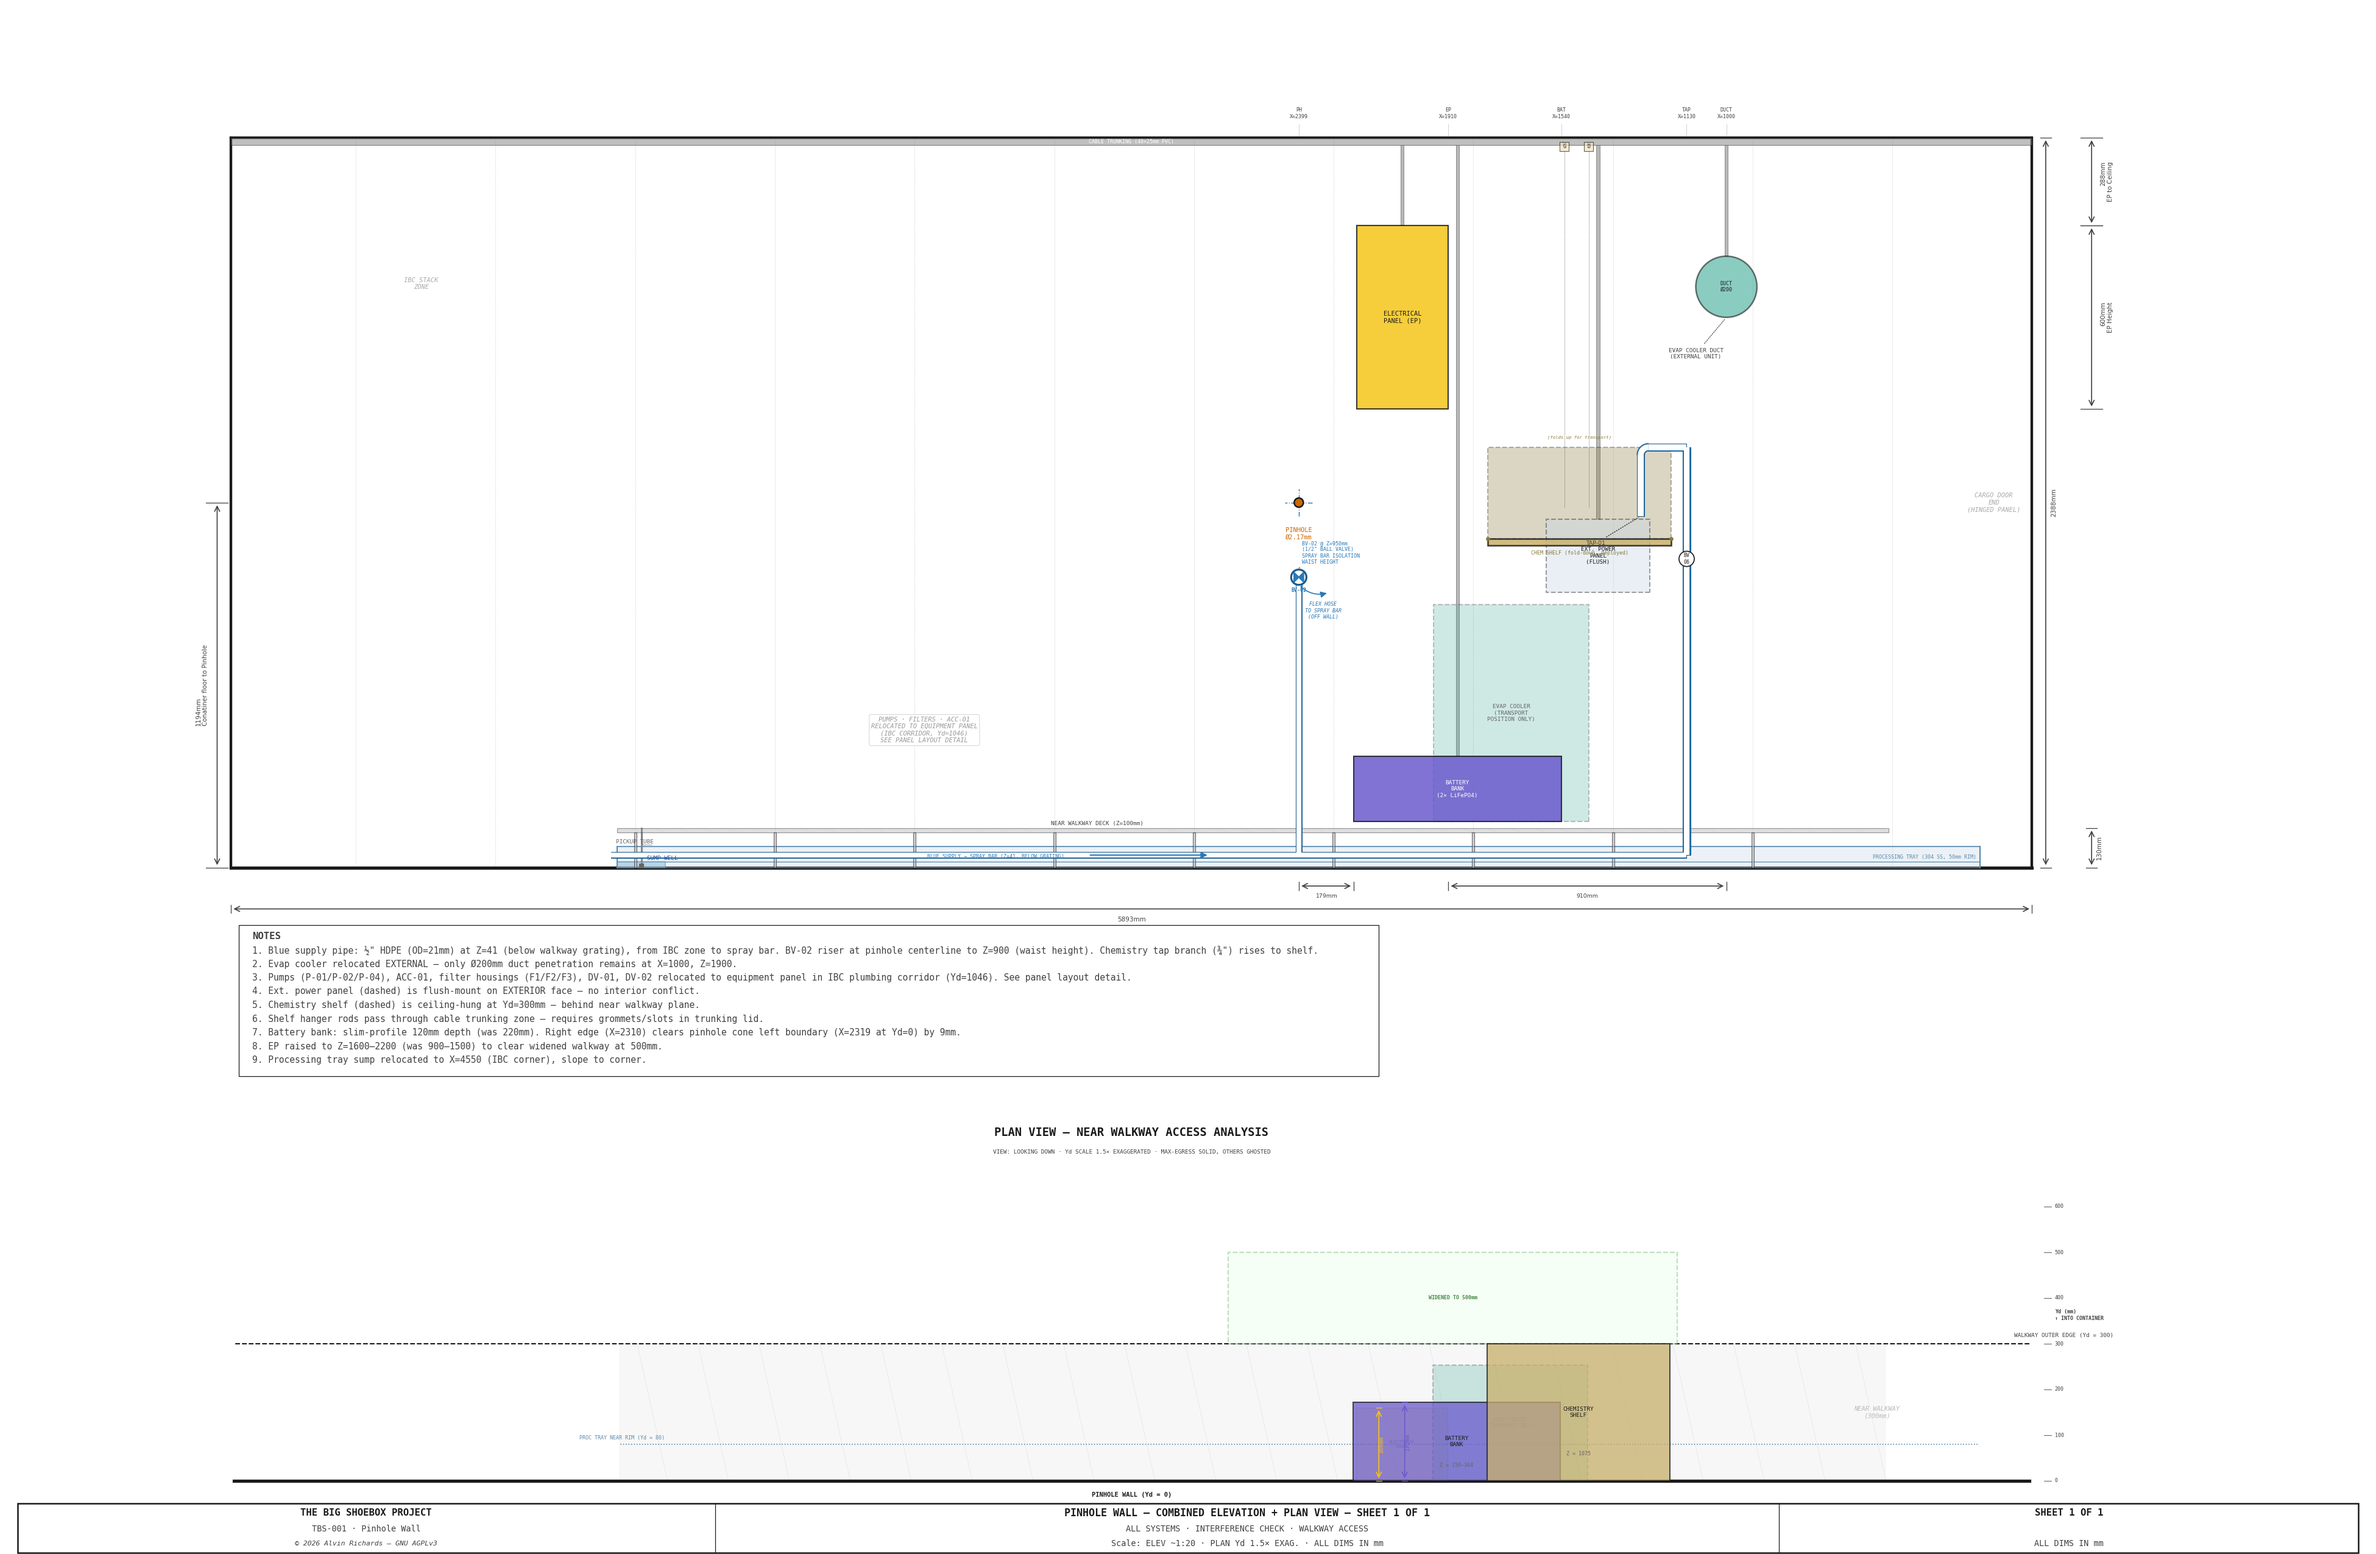
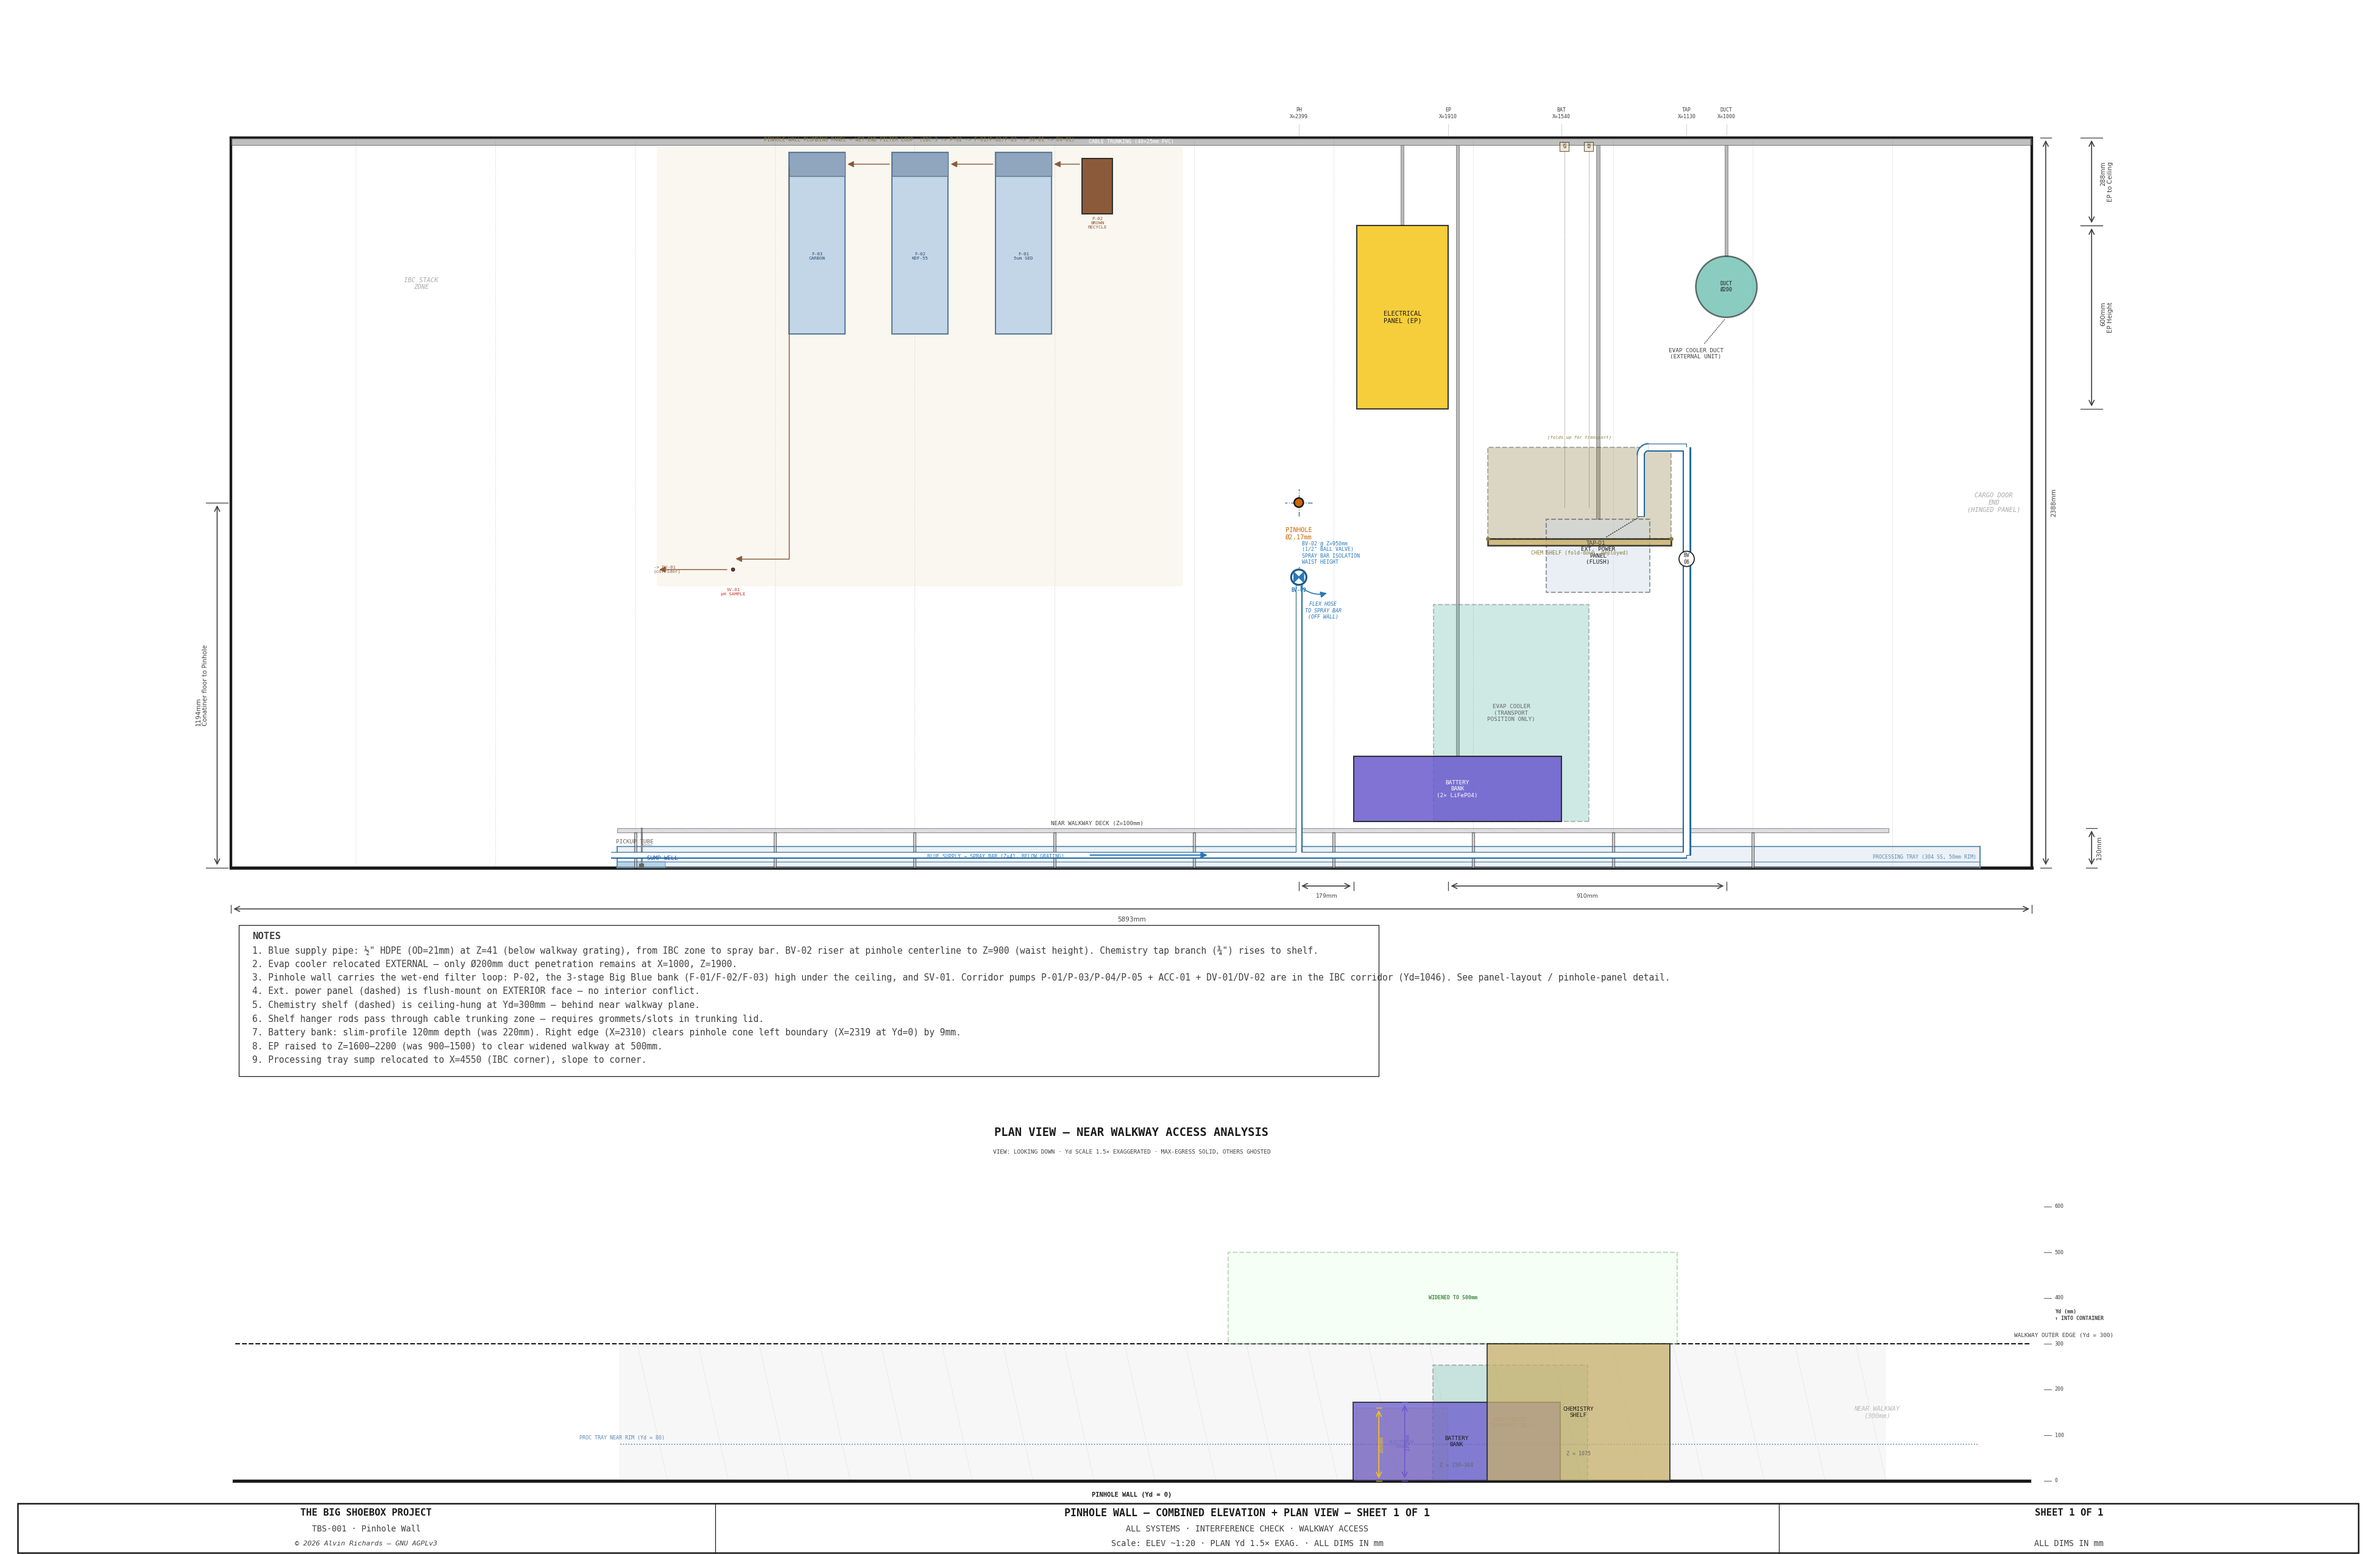
pinhole-wall-elevation: draw the wet-end filter loop (was stale 'relocated to corridor')
The pinhole-wall-mount refactor put the wet-end filter loop BACK on the pinhole wall, but the
elevation still showed the pre-refactor state (a ghost note 'PUMPS·FILTERS·ACC-01 RELOCATED TO
EQUIPMENT PANEL, IBC CORRIDOR'). Replaced that note with the actual equipment at its real positions
(from the pinhole-panel detail + the 3D pinhole-water-panel model): P-02 (Brown recycle), the
horizontal 3-stage Big Blue bank F-01(5µm)/F-02(KDF-55)/F-03(carbon) high under the ceiling
(heads ~2262-2340, sumps to 1746), SV-01 at waist, brown flow arrows, DV-01 exit to the corridor.
Rewrote Note 3 to describe the split (pinhole-wall filter loop vs corridor pumps P-01/P-03/P-04/P-05
+ ACC-01). Verified visually — bank clears the EP + cargo-door cluster.

Changed region(s): [[0.3103, 0.0929, 0.4654, 0.2169], [0.3723, 0.4647, 0.4033, 0.4957]]

diff --git a/src/generators/generate_pinhole_wall_elevation.py b/src/generators/generate_pinhole_wall_elevation.py
@@ -359,23 +359,50 @@ ax.text(sx(PH_X), sz(PH_H - 80), "PINHOLE\nØ2.17mm",
         ha="center", va="top", fontsize=5, color=C_PINHOLE_EQ,
         zorder=10, **FONT)
 
-# ── Equipment panel relocation note (rev 7) ───────────────────────────────
-# Pump manifold (P-01/P-02/P-04), ACC-01, and filter housings (F1/F2/F3)
-# are now on the equipment panel in the IBC plumbing corridor (Yd=1046).
-# They are NOT on the pinhole wall — see panel layout detail diagram.
-_note_x = (PH_X + ZONE_R_START) / 2 + 100 # centered between pinhole and IBC zone
-_note_z = 450
-ax.text(sx(_note_x), sz(_note_z),
-        "PUMPS · FILTERS · ACC-01\nRELOCATED TO EQUIPMENT PANEL\n(IBC CORRIDOR, Yd=1046)\nSEE PANEL LAYOUT DETAIL",
-        ha="center", va="center", fontsize=5, color="#999999",
-        style="italic", zorder=2, **FONT,
-        bbox=dict(boxstyle="round,pad=0.3", fc="white", ec="#CCCCCC", lw=0.5, alpha=0.8))
+# ── Pinhole Wall Plumbing Panel — wet-end filter loop (pinhole-wall-mount refactor) ──
+# The 3-stage Big Blue filter bank rides HIGH under the ceiling (heads ~2262-2340, sump bowls
+# hanging to 1746); P-02 (Brown recycle) sits to its left; SV-01 drops to waist; DV-01 exits to
+# the corridor mouth off the high-X edge. Positions match the pinhole-panel detail + the 3D
+# pinhole-water-panel model. (The four CORRIDOR pumps P-01/P-03/P-04/P-05 + ACC-01 stay in the
+# IBC corridor — see the panel-layout detail.)
+C_FILT, C_FILT_EC, C_BROWN = "#C3D6E8", "#5A7A9A", "#8A5A3A"
+_bb_r, _bb_bot, _bb_top, _bb_head = 92, 1746, 2340, 2262
+ax.add_patch(mpatches.Rectangle((sx(2780), sz(920)), sx(4500) - sx(2780), sz(2360) - sz(920),
+             facecolor="#EFE7D0", edgecolor="none", alpha=0.30, zorder=1))
+ax.text(sx(3640), sz(2372),
+        "PINHOLE-WALL PLUMBING PANEL — WET-END FILTER LOOP  (IBC-3 -> P-02 -> F-01/F-02/F-03 -> SV-01 -> DV-01)",
+        ha="center", va="bottom", fontsize=4, color="#8A7A4A", zorder=3, **FONT)
+# P-02 (Brown recycle pump) — upright, left of the bank
+ax.add_patch(mpatches.Rectangle((sx(3008), sz(2139)), sx(3108) - sx(3008), sz(2319) - sz(2139),
+             facecolor=C_BROWN, edgecolor=C_OUT, lw=0.8, zorder=8))
+ax.text(sx(3058), sz(2129), "P-02\nBROWN\nRECYCLE", ha="center", va="top", fontsize=3.6, color=C_BROWN, zorder=10, **FONT)
+# 3-stage Big Blue filter bank (heads near ceiling, sump bowls hanging)
+for _fid, _fcx, _media in [("F-01", 3300, "5um SED"), ("F-02", 3638, "KDF-55"), ("F-03", 3976, "CARBON")]:
+    _x0, _x1 = sx(_fcx - _bb_r), sx(_fcx + _bb_r)
+    ax.add_patch(mpatches.Rectangle((_x0, sz(_bb_bot)), _x1 - _x0, sz(_bb_top) - sz(_bb_bot),
+                 facecolor=C_FILT, edgecolor=C_FILT_EC, lw=1.0, zorder=7))
+    ax.add_patch(mpatches.Rectangle((_x0, sz(_bb_head)), _x1 - _x0, sz(_bb_top) - sz(_bb_head),
+                 facecolor="#8FA6BE", edgecolor=C_FILT_EC, lw=0.7, zorder=8))
+    ax.text(sx(_fcx), sz(2000), _fid + "\n" + _media, ha="center", va="center", fontsize=3.6, color="#2A4A6A", zorder=10, **FONT)
+# brown flow along the bank ports (P-02 -> F-01 -> F-02 -> F-03)
+for _x0, _x1 in [(3108, 3208), (3392, 3546), (3730, 3884)]:
+    ax.annotate("", xy=(sx(_x1), sz(2301)), xytext=(sx(_x0), sz(2301)),
+                arrowprops=dict(arrowstyle="-|>", color=C_BROWN, lw=0.7), zorder=9)
+# SV-01 pH sample tap (dropped to waist) + DV-01 exit to the corridor
+ax.add_patch(plt.Circle((sx(4250), sz(975)), 5, facecolor="#C0392B", edgecolor=C_OUT, lw=0.7, zorder=9))
+ax.annotate("", xy=(sx(4250), sz(1010)), xytext=(sx(4068), sz(2301)),
+            arrowprops=dict(arrowstyle="-|>", color=C_BROWN, lw=0.7,
+                            connectionstyle="angle,angleA=-90,angleB=0"), zorder=9)
+ax.text(sx(4250), sz(915), "SV-01\npH SAMPLE", ha="center", va="top", fontsize=3.6, color="#C0392B", zorder=10, **FONT)
+ax.annotate("", xy=(sx(4500), sz(975)), xytext=(sx(4262), sz(975)),
+            arrowprops=dict(arrowstyle="-|>", color=C_BROWN, lw=0.7), zorder=9)
+ax.text(sx(4510), sz(975), "-> DV-01\n(corridor)", ha="left", va="center", fontsize=3.6, color=C_BROWN, zorder=10, **FONT)
 
 # ═══════════════════════════════════════════════════════════════════════════
 # 4a. PLUMBING — Blue supply to spray bar (rev 7: simplified)
 # ═══════════════════════════════════════════════════════════════════════════
-# All pump/filter/valve internal routing relocated to equipment panel
-# (Yd=1046). Only the Blue supply trunk and chemistry tap remain on this wall.
+# The wet-end FILTER LOOP (P-02 + F-01/F-02/F-03 + SV-01) is on THIS wall (drawn above); the four
+# CORRIDOR pumps (P-01/P-03/P-04/P-05) + ACC-01 are in the IBC corridor. Blue supply trunk + chem tap below.
 
 IBC_PIPE_EXIT_X = ZONE_R_START   # pipes enter IBC stack zone
 
@@ -581,8 +608,9 @@ notes = [
     " from IBC zone to spray bar. BV-02 riser at pinhole centerline to Z=900 (waist height)."
     " Chemistry tap branch (¾\") rises to shelf.",
     f"2. Evap cooler relocated EXTERNAL — only Ø{EVAP_DUCT_D}mm duct penetration remains at X={EVAP_DUCT_X}, Z={EVAP_DUCT_Z}.",
-    "3. Pumps (P-01/P-02/P-04), ACC-01, filter housings (F1/F2/F3), DV-01, DV-02"
-    " relocated to equipment panel in IBC plumbing corridor (Yd=1046). See panel layout detail.",
+    "3. Pinhole wall carries the wet-end filter loop: P-02, the 3-stage Big Blue bank (F-01/F-02/F-03)"
+    " high under the ceiling, and SV-01. Corridor pumps P-01/P-03/P-04/P-05 + ACC-01 + DV-01/DV-02 are"
+    " in the IBC corridor (Yd=1046). See panel-layout / pinhole-panel detail.",
     "4. Ext. power panel (dashed) is flush-mount on EXTERIOR face — no interior conflict.",
     "5. Chemistry shelf (dashed) is ceiling-hung at Yd=300mm — behind near walkway plane.",
     "6. Shelf hanger rods pass through cable trunking zone — requires grommets/slots in trunking lid.",
